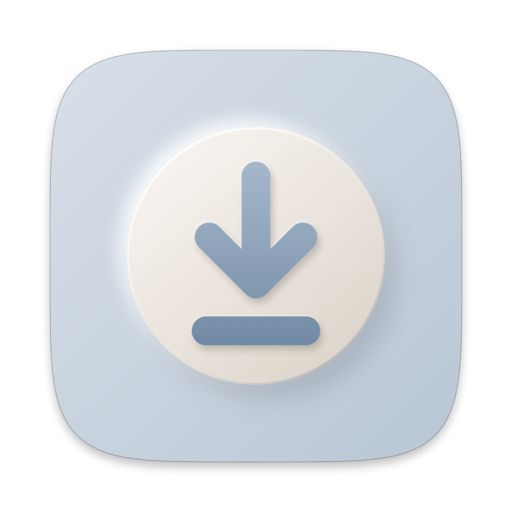
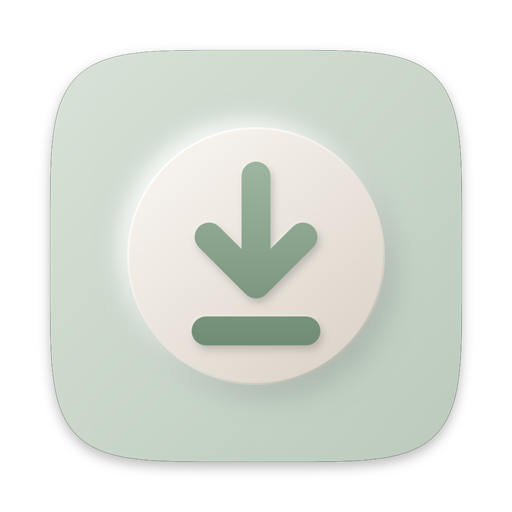
Swap app colours: Compressor slate, Downloader sage
Icons, favicons, parent-page tiles and switcher pills now match the
recoloured app icons.

diff --git a/digby/assets/digby.css b/digby/assets/digby.css
@@ -3,13 +3,13 @@
    its own product's accent. Light and dark follow the system unless data-theme is set (footer switch, theme.js). */
 :root {
   --alt-0: #040A17; --alt-1: #07112A; --alt-2: #0E1F3D; --sky-end: var(--alt-2);
-  --on-alt: #EEF2F8; --on-alt-2: rgba(222, 232, 246, .7); --alt-line: rgba(191, 211, 234, .1);
+  --on-alt: #EEF4EF; --on-alt-2: rgba(222, 232, 246, .7); --alt-line: rgba(191, 211, 234, .1);
   --dawn: #F2C2A0;
   --bg: #F4F6FA; --bg-2: #EBEFF6; --card: #FFFFFF; --fg: #0B1526; --muted: #4F5D73; --line: rgba(14, 31, 61, .09);
   --shadow: 0 1px 2px rgba(14, 31, 61, .05), 0 18px 50px rgba(14, 31, 61, .08);
   --shadow-hover: 0 1px 2px rgba(14, 31, 61, .06), 0 28px 70px rgba(14, 31, 61, .14);
   --win-shadow: 0 0 0 1px rgba(14, 31, 61, .08), 0 18px 40px rgba(14, 31, 61, .16);
-  --cp: #2F5E9E; --cp-glow: rgba(242, 194, 160, .55); --cp-stage: linear-gradient(170deg, #DCE7F5 0%, #EEF2F8 55%, #F8E3D3 100%);
+  --cp: #2F5E9E; --cp-glow: rgba(242, 194, 160, .55); --cp-stage: linear-gradient(170deg, #DCE7F5 0%, #EEF4EF 55%, #F8E3D3 100%);
   --dl: #1C666C; --dl-glow: rgba(232, 179, 106, .5); --dl-stage: linear-gradient(170deg, #DCEBEA 0%, #F2EFE8 60%, #F4E2C6 100%);
   --win: #FFFFFF; --win-bar: #ECECEC; --win-side: #F2F2F4;
   --display: "Hanken Grotesk", "Helvetica Neue", Arial, sans-serif;
@@ -182,7 +182,7 @@ footer .fine a { text-decoration: underline; text-decoration-color: rgba(222, 23
 }
 
 /* ---------- Daylight wash (2026-11): a bright pastel rainbow hero for the family page, dark text on light;
-   each card takes its colours from its app icon (Compressor sage, Downloader dusty blue). */
+   each card takes its colours from its app icon (Compressor dusty blue, Downloader sage). */
 .rb-text{background:linear-gradient(90deg,#FF4D5E, #FF8A3D, #FFD23F, #3DDC97, #2EC4F1, #6A6CFF, #B44DFF, #FF4DB8,#FF4D5E);background-size:200% 100%;-webkit-background-clip:text;background-clip:text;color:transparent;animation:rb-slide 14s linear infinite}
 @keyframes rb-slide{from{background-position:0 0}to{background-position:200% 0}}
 @media (prefers-reduced-motion: reduce){.sky::before,.sky::after,.rb-text,.rb-anim{animation:none!important}}
@@ -195,9 +195,9 @@ html{background:#FFF6EE} .sky{color:#17122E}
 .wordmark{color:#17122E} .sky .lead{color:rgba(23,18,46,.68)} :focus-visible{outline-color:#6A6CFF}
 footer{border-top:4px solid transparent;border-image:linear-gradient(90deg,#FF4D5E, #FF8A3D, #FFD23F, #3DDC97, #2EC4F1, #6A6CFF, #B44DFF, #FF4DB8) 1}
 
-.card.cp{--accent:#4E7D63;--glow:rgba(143,184,160,.6);--stage:linear-gradient(170deg,#DCEBE2 0%,#EEF4EF 55%,#F6EEDF 100%)}
-.card.dl{--accent:#4A6C9B;--glow:rgba(160,182,214,.6);--stage:linear-gradient(170deg,#DCE5F2 0%,#EEF2F8 55%,#F4ECDF 100%)}
-.pill{--cp:#4E7D63}
-@media (prefers-color-scheme: dark){:root:not([data-theme="light"]) .card.cp{--accent:#93C4A8;--stage:linear-gradient(170deg,#15281F 0%,#111B30 60%,#2A2620 100%)} :root:not([data-theme="light"]) .card.dl{--accent:#9DB7DE;--stage:linear-gradient(170deg,#152238 0%,#111B30 60%,#2A2620 100%)} :root:not([data-theme="light"]) .pill{--cp:#93C4A8}} :root[data-theme="dark"] .card.cp{--accent:#93C4A8;--stage:linear-gradient(170deg,#15281F 0%,#111B30 60%,#2A2620 100%)} :root[data-theme="dark"] .card.dl{--accent:#9DB7DE;--stage:linear-gradient(170deg,#152238 0%,#111B30 60%,#2A2620 100%)} :root[data-theme="dark"] .pill{--cp:#93C4A8}
+.card.cp{--accent:#4A6C9B;--glow:rgba(160,182,214,.6);--stage:linear-gradient(170deg,#DCE5F2 0%,#EEF2F8 55%,#F4ECDF 100%)}
+.card.dl{--accent:#4E7D63;--glow:rgba(143,184,160,.6);--stage:linear-gradient(170deg,#DCEBE2 0%,#EEF4EF 55%,#F6EEDF 100%)}
+.pill{--cp:#4A6C9B}
+@media (prefers-color-scheme: dark){:root:not([data-theme="light"]) .card.cp{--accent:#9DB7DE;--stage:linear-gradient(170deg,#152238 0%,#111B30 60%,#2A2620 100%)} :root:not([data-theme="light"]) .card.dl{--accent:#93C4A8;--stage:linear-gradient(170deg,#15281F 0%,#111B30 60%,#2A2620 100%)} :root:not([data-theme="light"]) .pill{--cp:#9DB7DE}} :root[data-theme="dark"] .card.cp{--accent:#9DB7DE;--stage:linear-gradient(170deg,#152238 0%,#111B30 60%,#2A2620 100%)} :root[data-theme="dark"] .card.dl{--accent:#93C4A8;--stage:linear-gradient(170deg,#15281F 0%,#111B30 60%,#2A2620 100%)} :root[data-theme="dark"] .pill{--cp:#9DB7DE}
 .icon { margin: 0; width: 56px; height: 56px; border-radius: 22.5%; filter: drop-shadow(0 6px 14px color-mix(in srgb, var(--accent) 28%, transparent)) }
 .flow img { margin: 0; width: 60px; height: 60px; filter: drop-shadow(0 8px 18px rgba(23, 18, 46, .14)) }

diff --git a/compressor/index.html b/compressor/index.html
@@ -103,15 +103,15 @@ nav details.sw > summary.sw-b:focus-visible { outline: 2px solid rgba(255, 255, 
 .sw-p img { width: 40px; height: 40px; flex: none }
 .sw-p .sw-t { display: grid; gap: 2px; flex: 1; min-width: 0 }
 .sw-p b { font-weight: 600 } .sw-p i { font-style: normal; color: #5A6A80; font-size: 13px }
-.sw-p em { font-style: normal; font-size: 11.5px; white-space: nowrap; padding: 4px 8px; border-radius: 99px; color: #4E7D63; background: color-mix(in srgb, #4E7D63 12%, #fff) }
+.sw-p em { font-style: normal; font-size: 11.5px; white-space: nowrap; padding: 4px 8px; border-radius: 99px; color: #4A6C9B; background: color-mix(in srgb, #4A6C9B 12%, #fff) }
 .sw-p a.sw-all { color: #5A6A80; border-top: 1px solid #E6EAF0; border-radius: 0 0 12px 12px; margin-top: 4px; padding-block: 12px 10px }
 @media (min-width: 761px) { .sw-p { left: max(28px, env(safe-area-inset-left, 0px)) } }
 @media (prefers-color-scheme: dark) { :root:not([data-theme="light"]) .sw-p { background: #131B2A; color: #E6ECF5; box-shadow: 0 24px 60px rgba(0, 0, 0, .55), 0 0 0 1px rgba(255, 255, 255, .08) }
   :root:not([data-theme="light"]) .sw-p a:hover { background: #1C2638 } :root:not([data-theme="light"]) .sw-k, :root:not([data-theme="light"]) .sw-p i, :root:not([data-theme="light"]) .sw-p a.sw-all { color: #95A3B8 }
-  :root:not([data-theme="light"]) .sw-p a.sw-all { border-color: rgba(255, 255, 255, .08) } :root:not([data-theme="light"]) .sw-p em { background: color-mix(in srgb, #4E7D63 22%, #131B2A); color: #93C4A8 } }
+  :root:not([data-theme="light"]) .sw-p a.sw-all { border-color: rgba(255, 255, 255, .08) } :root:not([data-theme="light"]) .sw-p em { background: color-mix(in srgb, #4A6C9B 22%, #131B2A); color: #9DB7DE } }
 :root[data-theme="dark"] .sw-p { background: #131B2A; color: #E6ECF5; box-shadow: 0 24px 60px rgba(0, 0, 0, .55), 0 0 0 1px rgba(255, 255, 255, .08) }
 :root[data-theme="dark"] .sw-p a:hover { background: #1C2638 } :root[data-theme="dark"] .sw-k, :root[data-theme="dark"] .sw-p i, :root[data-theme="dark"] .sw-p a.sw-all { color: #95A3B8 }
-:root[data-theme="dark"] .sw-p a.sw-all { border-color: rgba(255, 255, 255, .08) } :root[data-theme="dark"] .sw-p em { background: color-mix(in srgb, #4E7D63 22%, #131B2A); color: #93C4A8 }
+:root[data-theme="dark"] .sw-p a.sw-all { border-color: rgba(255, 255, 255, .08) } :root[data-theme="dark"] .sw-p em { background: color-mix(in srgb, #4A6C9B 22%, #131B2A); color: #9DB7DE }
 @media (prefers-reduced-motion: reduce) { .sw-p { animation: none } }
 /* small phones: the lockup shrinks with the viewport, leaving room for the chevron and Download */
 @media (max-width: 430px) { nav .brand.digby-lockup { font-size: clamp(15px, calc((100vw - 176px) / 8.6), 25px) } nav details.sw > summary.sw-b { width: 26px; height: 26px } }

diff --git a/downloader/index.html b/downloader/index.html
@@ -52,15 +52,15 @@ nav details.sw > summary.sw-b:focus-visible { outline: 2px solid rgba(255, 255, 
 .sw-p img { width: 40px; height: 40px; flex: none }
 .sw-p .sw-t { display: grid; gap: 2px; flex: 1; min-width: 0 }
 .sw-p b { font-weight: 600 } .sw-p i { font-style: normal; color: #5A6A80; font-size: 13px }
-.sw-p em { font-style: normal; font-size: 11.5px; white-space: nowrap; padding: 4px 8px; border-radius: 99px; color: #4A6C9B; background: color-mix(in srgb, #4A6C9B 12%, #fff) }
+.sw-p em { font-style: normal; font-size: 11.5px; white-space: nowrap; padding: 4px 8px; border-radius: 99px; color: #4E7D63; background: color-mix(in srgb, #4E7D63 12%, #fff) }
 .sw-p a.sw-all { color: #5A6A80; border-top: 1px solid #E6EAF0; border-radius: 0 0 12px 12px; margin-top: 4px; padding-block: 12px 10px }
 @media (min-width: 761px) { .sw-p { left: max(28px, env(safe-area-inset-left, 0px)) } }
 @media (prefers-color-scheme: dark) { :root:not([data-theme="light"]) .sw-p { background: #131B2A; color: #E6ECF5; box-shadow: 0 24px 60px rgba(0, 0, 0, .55), 0 0 0 1px rgba(255, 255, 255, .08) }
   :root:not([data-theme="light"]) .sw-p a:hover { background: #1C2638 } :root:not([data-theme="light"]) .sw-k, :root:not([data-theme="light"]) .sw-p i, :root:not([data-theme="light"]) .sw-p a.sw-all { color: #95A3B8 }
-  :root:not([data-theme="light"]) .sw-p a.sw-all { border-color: rgba(255, 255, 255, .08) } :root:not([data-theme="light"]) .sw-p em { background: color-mix(in srgb, #4A6C9B 22%, #131B2A); color: #9DB7DE } }
+  :root:not([data-theme="light"]) .sw-p a.sw-all { border-color: rgba(255, 255, 255, .08) } :root:not([data-theme="light"]) .sw-p em { background: color-mix(in srgb, #4E7D63 22%, #131B2A); color: #93C4A8 } }
 :root[data-theme="dark"] .sw-p { background: #131B2A; color: #E6ECF5; box-shadow: 0 24px 60px rgba(0, 0, 0, .55), 0 0 0 1px rgba(255, 255, 255, .08) }
 :root[data-theme="dark"] .sw-p a:hover { background: #1C2638 } :root[data-theme="dark"] .sw-k, :root[data-theme="dark"] .sw-p i, :root[data-theme="dark"] .sw-p a.sw-all { color: #95A3B8 }
-:root[data-theme="dark"] .sw-p a.sw-all { border-color: rgba(255, 255, 255, .08) } :root[data-theme="dark"] .sw-p em { background: color-mix(in srgb, #4A6C9B 22%, #131B2A); color: #9DB7DE }
+:root[data-theme="dark"] .sw-p a.sw-all { border-color: rgba(255, 255, 255, .08) } :root[data-theme="dark"] .sw-p em { background: color-mix(in srgb, #4E7D63 22%, #131B2A); color: #93C4A8 }
 @media (prefers-reduced-motion: reduce) { .sw-p { animation: none } }
 /* small phones: the lockup shrinks with the viewport, leaving room for the chevron and Download */
 @media (max-width: 430px) { nav .brand.digby-lockup { font-size: clamp(15px, calc((100vw - 176px) / 8.6), 25px) } nav details.sw > summary.sw-b { width: 26px; height: 26px } }
